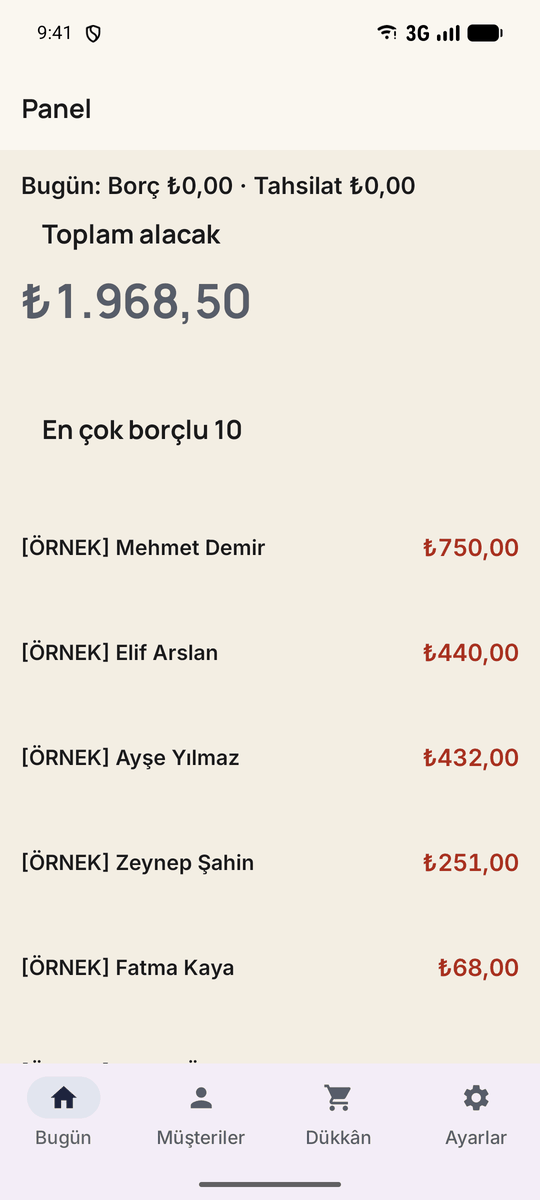
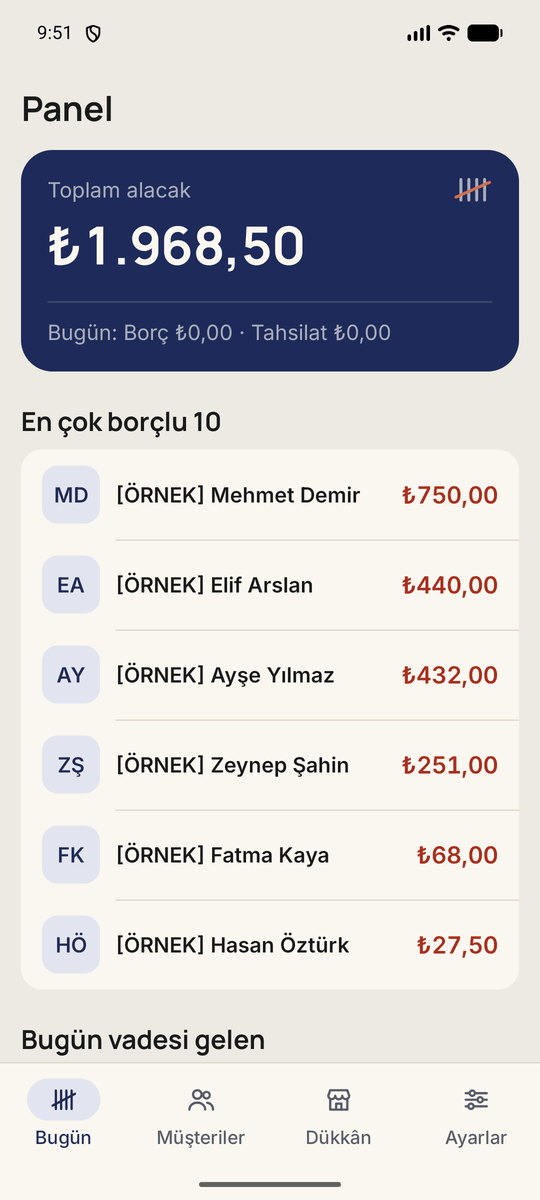
docs(server): replace app screenshots with captures of the redesigned app

diff --git a/cetele/docs/release/screenshots/README.md b/cetele/docs/release/screenshots/README.md
@@ -1,25 +1,22 @@
 # App screenshots
 
-Three Android captures of the debug build of the Cetele app, taken on 2026-10-11 on the `Pixel_8`
-Android emulator (Android 17, API 37; an emulator, not a physical device), signed in against a
-live server running locally. They are the raw device frames (1080x2400, no device frame, no
-retouching), downscaled to 540x1200 and reduced to a 256-colour palette to keep each file small.
-The status bar is in the emulator's demo mode (09:41).
+Three Android captures of the debug build of the redesigned Cetele app, taken on 2026-10-11 on the
+`Pixel_8` Android emulator (an emulator, not a physical device), signed in against a server running
+locally. They are the raw device frames (1080x2400, light theme, no device frame, no retouching),
+downscaled to 540x1200 and reduced to a 256-colour palette to keep each file small. The pixels
+were not edited.
 
-The server was the Spring Boot server of this repository, started from source with
-`./gradlew bootRun` (profile `local`, JDK 21) on port 60080, with PostgreSQL and MinIO from
+The server was the Spring Boot server of this repository, built and started from source
+(`./gradlew bootRun`, profile `local`, JDK 21), with PostgreSQL and MinIO from
 `cetele/docker-compose.yml`. It ran with the local stand-ins described in
-[`docs/ops/env.md`](../../ops/env.md): `CETELE_SMS_PROVIDER=fake` (no SMS was sent),
-`CETELE_INTEGRITY_MODE=fake` (the debug app sends the `fake.ok` token), `CETELE_BILLING_MODE=fake`
-and `CETELE_OTP_LOCAL_ECHO=true`, so the sign-in code was read from the server log. No deployed
-service was involved.
+[`docs/ops/env.md`](../../ops/env.md): fake SMS (no SMS was sent), fake integrity (the debug app
+sends the `fake.ok` token) and fake billing. No deployed service was involved.
 
-Every shop, person name, phone number, note and amount on screen is sample data. The shop and
-customer names carry the `[ÖRNEK]` label, and the phone numbers are placeholders in the
-`0 555 000 00 xx` pattern, picked as sample values and not taken from any person. The shop, the customers and the ledger entries
-were sent to the server through its HTTP API (`POST /v1/shops` and `POST /v1/shops/{shopId}/sync/push`);
-the app then signed in with the same placeholder phone number through its own screens (phone
-number, code, new PIN) and pulled the data with its normal sync.
+Every shop, person name, phone number, note and amount on screen is sample data: one `[ÖRNEK]`
+shop, seven `[ÖRNEK]` customers and 17 ledger entries, including one reversing entry. The phone
+numbers are placeholders in the `0 555 000 00 xx` pattern, picked as sample values and not taken
+from any person. The data was sent to the server through its HTTP API and the app pulled it with
+its normal sync.
 
 ## Files
 
@@ -31,15 +28,17 @@ number, code, new PIN) and pulled the data with its normal sync.
 
 Notes on what the images show:
 
-- 02: the 320,00 TL "Deterjan" debt was entered with a wrong amount, reversed by a "Düzeltme"
-  entry and written again with the right amount (230,00 TL). The ledger never deletes an entry; a
-  reversed entry stays visible, struck through. One more entry of this customer (42,50 TL, with a
-  due date) is below the visible area. The balance (432,00 TL) counts only entries that are not
-  reversed.
+- 02: the 320,00 TL "Deterjan" debt was entered with a wrong amount, marked "Düzeltilmiş kayıt"
+  and reversed by a "Düzeltme" entry, then written again with the right amount (230,00 TL). The
+  ledger never deletes an entry; a reversed entry stays visible, struck through. The balance
+  (432,00 TL) counts only entries that are not reversed.
 - 03: the "Bugün" line shows 0,00 TL because every sample entry is dated before the capture day.
-- 01, 03: "[ÖRNEK] Ali Çelik" has a balance of 0,00 TL: his sample debt is fully paid.
-- The gesture handle of the emulator overlaps the bottom edge of the screens. The captures are not
-  retouched.
+  The list below the visible area ("Bugün vadesi gelen") is cut off by the screen edge.
+- 01, 03: "[ÖRNEK] Ali Çelik" has a balance of 0,00 TL: his sample debt is fully paid (he is
+  listed on 01 only; 03 shows the six customers with a balance).
+- The status bar shows the emulator clock (9:51). The captures are not retouched.
 
-Not captured: the photo attachment of an entry, reminders and the statement PDF, and iOS (there is
-no iOS app). The two sign-in captures of the earlier run (no server) were replaced by these three.
+Limits: these are emulator frames of a debug build against a local server with fake adapters. They
+are not taken on a physical device and are not an end-to-end test of SMS, integrity or billing.
+Not captured: the photo attachment of an entry, reminders and the statement PDF, dark theme, and
+iOS (there is no iOS app).
